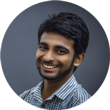
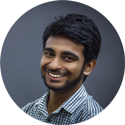
bug fixed

diff --git a/about.html b/about.html
@@ -63,8 +63,10 @@
       </nav>
       <div class="about">
           <h1>Hey there! Welcome. I’m Praveen.</h1>
-          <img src="img/Hello_Praveen_Pal.jpg" alt="Hello Praveen Pal">
-          <p></p>I’m a front-end and UI / UX developer based in New Delhi. I love the Web platform and I want to make it better for everyone. And I consider myself to be completely blessed that I get to build it for a living.</p>
+          <div class="about_img clearfix">
+            <img src="img/Hello_Praveen_Pal.jpg" alt="Hello Praveen Pal">
+          </div>
+          <p>I’m a front-end and UI / UX developer based in New Delhi. I love the Web platform and I want to make it better for everyone. And I consider myself to be completely blessed that I get to build it for a living.</p>
           <p>I am completing my bachelor's in computers from Indira Gandhi Open National University. I’ve always wanted to study multiple majors because I never wanted to stop learning. I’m grateful that I ended up in a field where one of the major requirements for staying relevant is to continuously keep learning.</p>
           <p>Worked with Rahu Designs as a freelancer, building Web sites and application UIs with a strong focus on responsive design, accessibility, performance, and the latest in the area of front-end (CSS, Grid, Design Thinking). I also an active member of Designers and Developers Communities across the Delhi-NCR like GDG-New Delhi, Facebook Developer Circle, also focusing on CSS, Grid, Design Thinking, Responsive Design and accessibility, covering practical tips on how to build front ends using modern tools and techniques that scale and are future-proof.</p>
 

diff --git a/css/style.css b/css/style.css
@@ -90,6 +90,9 @@ background-color: #E1A6EC;
         border: 2px solid #E1A6EC;
         box-shadow: 0px 0px 5px rgb(179, 67, 199);
     }
+    .me a{
+      background-color: transparent !important;
+    }
     nav{
         padding: 1em 0em;
         display: flex;
@@ -107,11 +110,7 @@ background-color: #E1A6EC;
         display: flex;
         justify-content: center;
         flex-direction: column;
-        padding: 2.5em 0em;
-    }
-    footer p{
-        text-align: center;
-        padding: 5px 0px;
+        padding: 2.5em 1em;
     }
     #twitter-widget-0{
         display: inline-block;
@@ -196,6 +195,10 @@ background-color: #E1A6EC;
       position: relative;
       margin-bottom: 1rem;
   }
+  .about_img{
+    margin: 1em 0;
+    background-color: #aa98cd;
+  }
   .get_in_touch{
       padding: 1em 0;
   }
@@ -206,7 +209,6 @@ padding: 0 1em;
 list-style: square;
 line-height: 2;
   }
-/* Dark Mode */
   html[data-theme="dark"] {
     background-color: #1f1b27;
     color: #e2d9f2;
@@ -219,4 +221,12 @@ html[data-theme="dark"] a:focus,
 html[data-theme="dark"] a:active {
     color: #e2d9f2;
     background-color: blueviolet;
+}
+html[data-theme="dark"] .about_img img{
+  mix-blend-mode: multiply;
+}
+.clearfix::after {
+  content: "";
+  clear: both;
+  display: table;
 }
